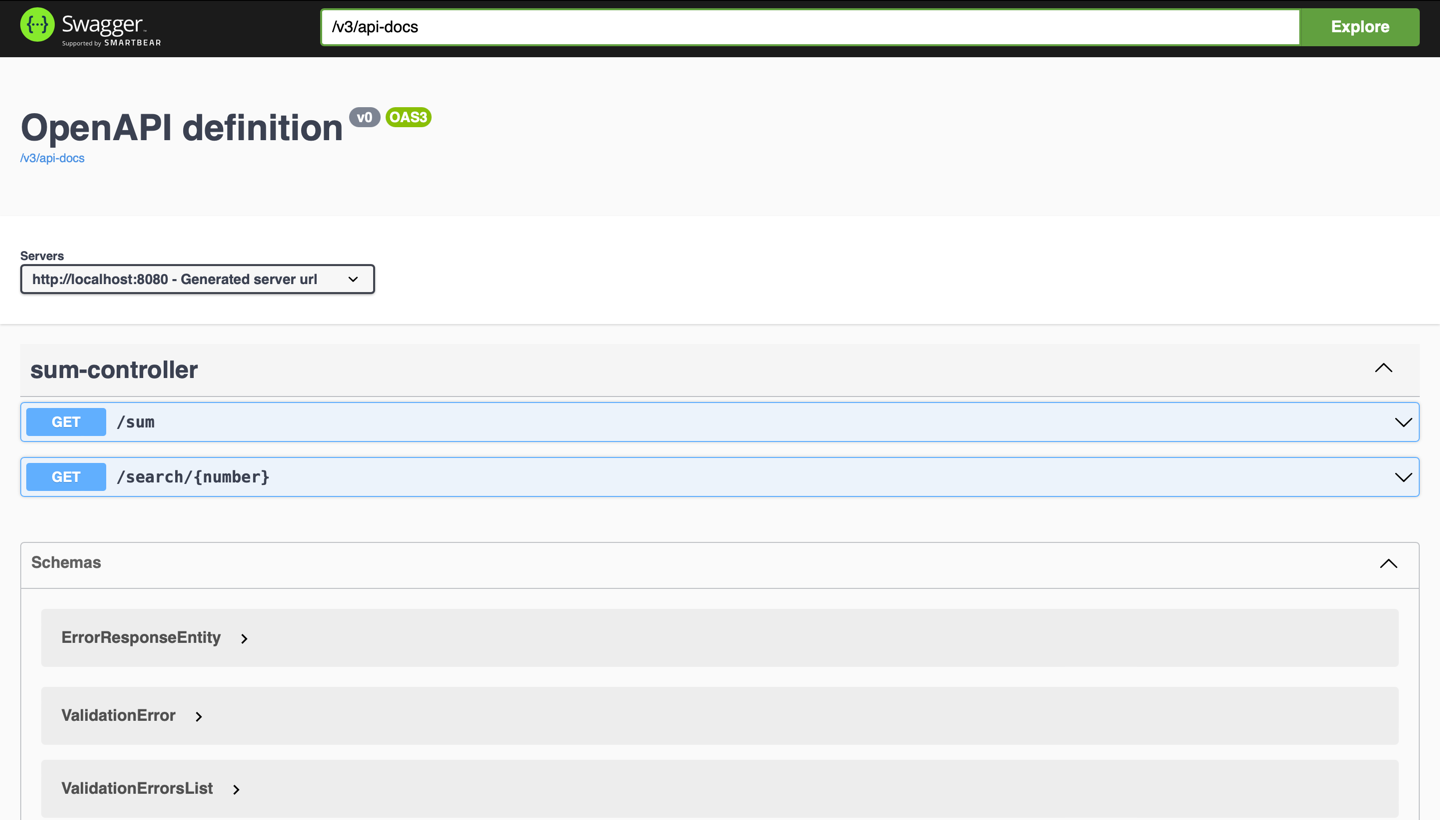
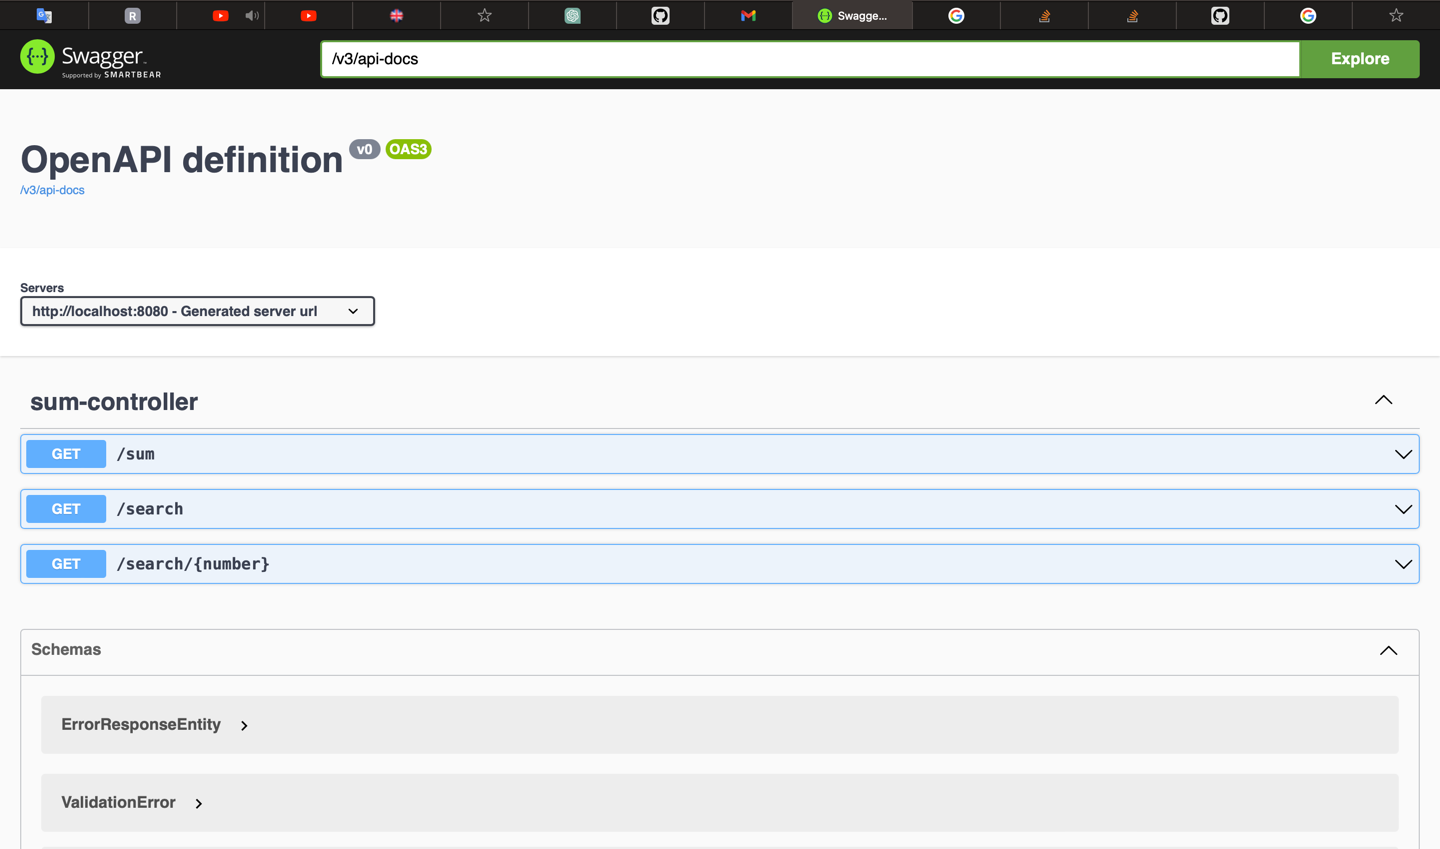
Refactoring

diff --git a/backend/src/main/java/com/task/piirivalveamet/controllers/SumController.java b/backend/src/main/java/com/task/piirivalveamet/controllers/SumController.java
@@ -8,13 +8,13 @@ import jakarta.validation.constraints.Min;
 import lombok.RequiredArgsConstructor;
 import org.springframework.data.domain.Page;
 import org.springframework.data.domain.Pageable;
+import org.springframework.data.domain.Sort;
+import org.springframework.data.web.SortDefault;
 import org.springframework.validation.annotation.Validated;
 import org.springframework.web.bind.annotation.GetMapping;
 import org.springframework.web.bind.annotation.PathVariable;
 import org.springframework.web.bind.annotation.RequestParam;
 import org.springframework.web.bind.annotation.RestController;
-
-import java.util.Optional;
 
 @RestController
 @RequiredArgsConstructor
@@ -30,12 +30,13 @@ public class SumController {
   }
 
   @GetMapping("/search/{number}")
-  Page<SumModel> searchBy(@PathVariable @Min(0) @Max(100) Optional<Integer> number,
-                          Pageable pageable) {
-    if (number.isPresent()) {
-      return searchService.searchSum(number.get(), pageable);
-    }
+  Page<SumModel> searchBy(@PathVariable @Min(0) @Max(100) Integer number,
+                          @SortDefault(sort = "sum", direction = Sort.Direction.DESC) Pageable pageable) {
+    return searchService.searchSum(number, pageable);
+  }
 
+  @GetMapping("/search")
+  Page<SumModel> findAll(@SortDefault(sort = "sum", direction = Sort.Direction.DESC) Pageable pageable) {
     return searchService.findAll(pageable);
   }
 }

diff --git a/README.md b/README.md
@@ -33,3 +33,17 @@ If containers should be deleted, use Docker Compose command:
 [Swagger-UI](http://localhost:8080/api/swagger-ui/index.html) (The application should be run)
 
 ![swagger-ui.png](assets/swagger-ui.png)
+
+# Description
+This application consists two endpoints, one of these endpoints for handling a request of summarizing of two integers 
+and second endpoint for searching a previous cases of summarization. 
+
+In search purpose, you can use a sorting for your requests, if you want to search results by sum:
+```http://localhost:8080/search/{number for search}?sort=sum,{desc|asc}```
+
+Also with searching by first addend and second addend:
+```http://localhost:8080/search/{number for search}?sort={firstAddend|secondAddend},{desc|asc}```
+
+There was implemented an error handling and possibility to run an application using Docker and Docker Compose as well.  
+
+All requests has conditions for inbound parameters
